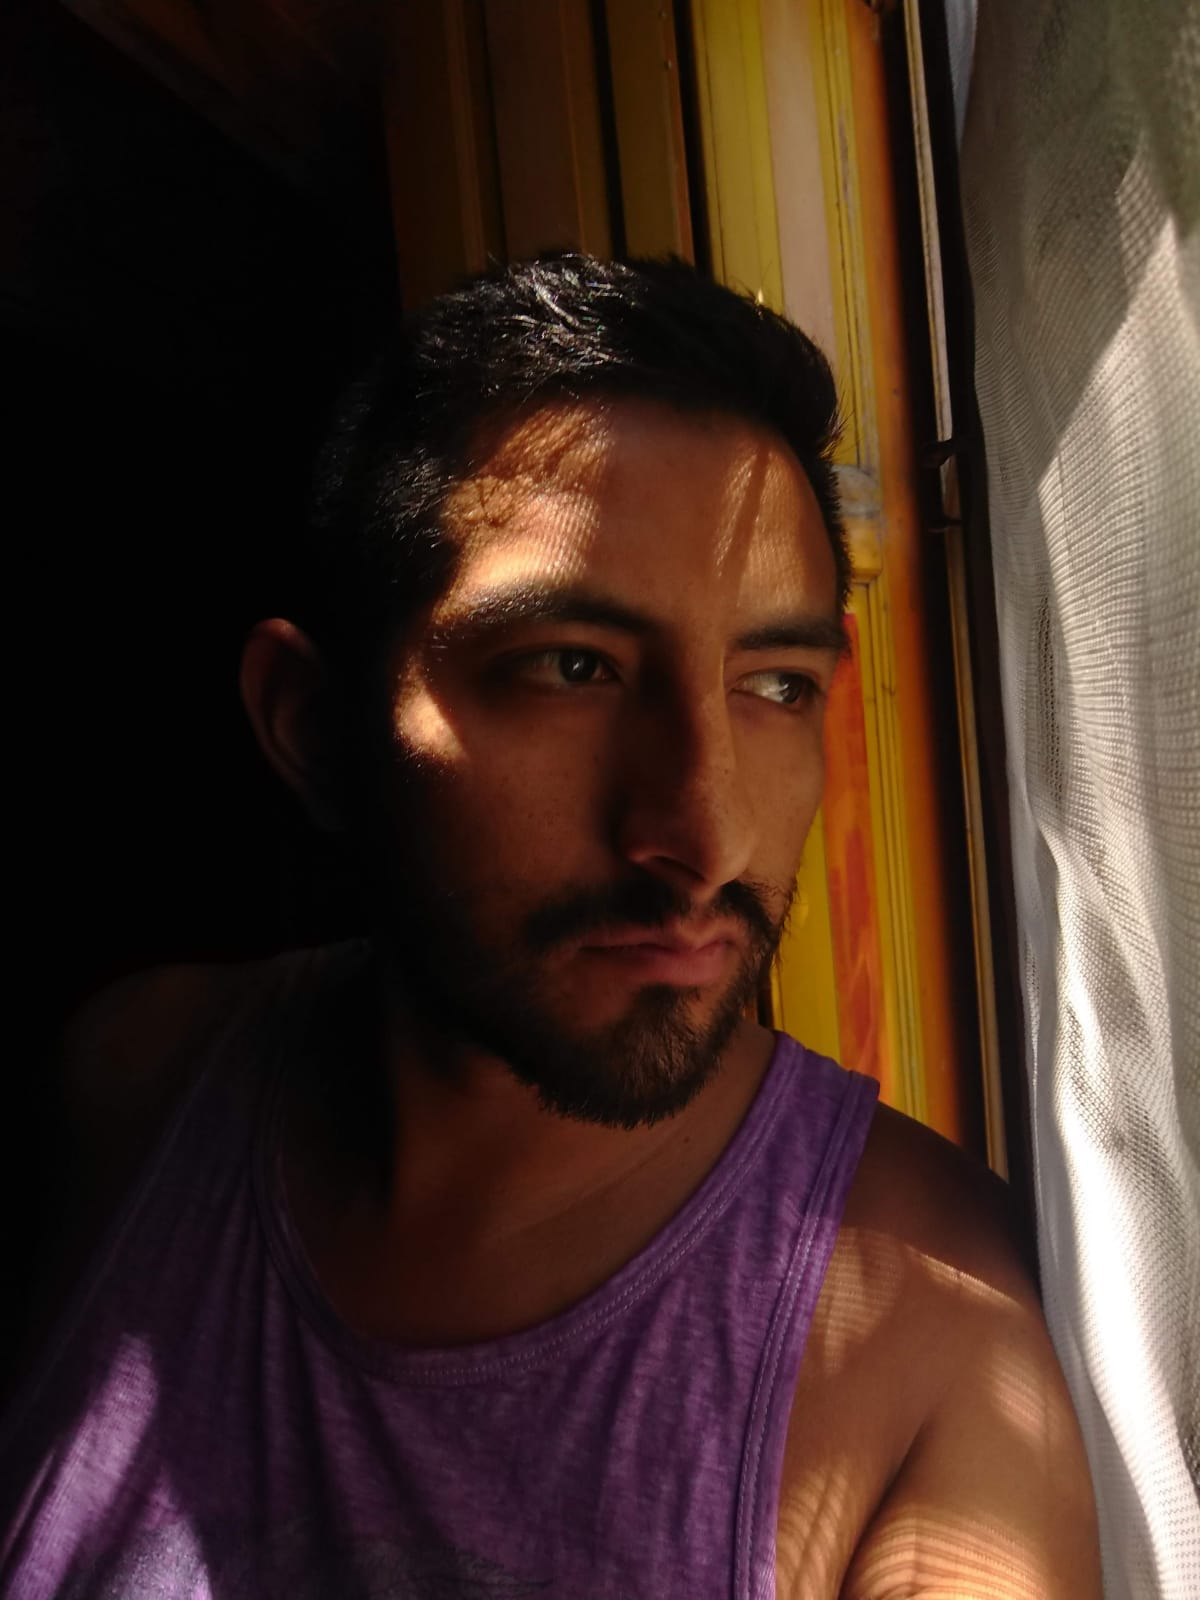
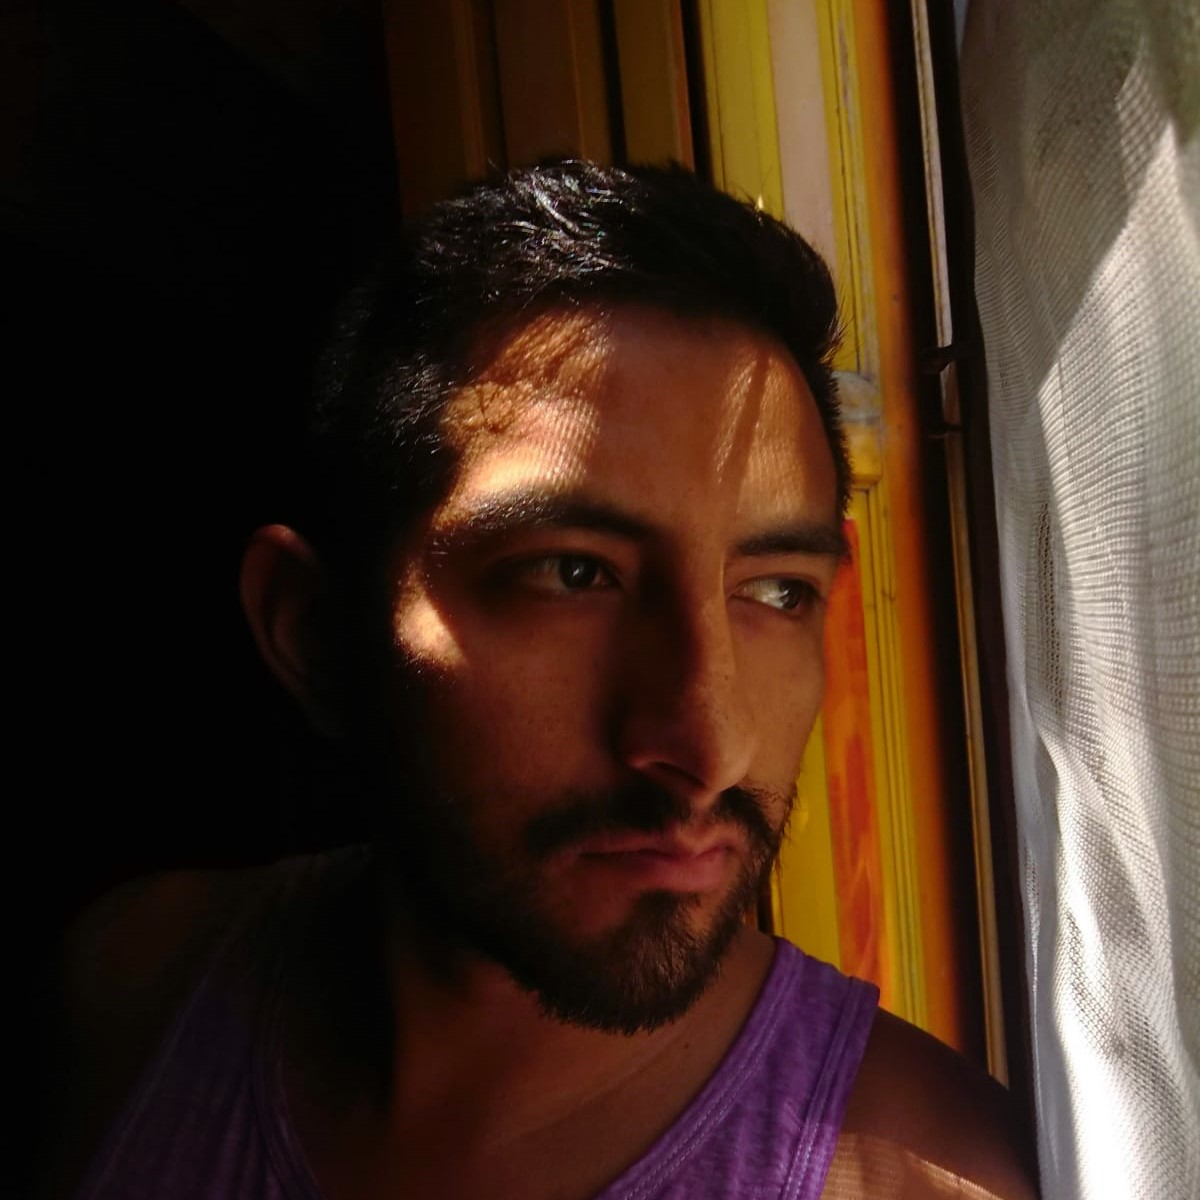
agregado menu burger y ajustes en index

diff --git a/css/estilo.css b/css/estilo.css
@@ -31,6 +31,77 @@
   transform: scale(1.1);
 }
 
+@media (max-width: 768px) {
+  .navGeneral {
+    position: relative;
+    min-height: 48px;
+  }
+  .navGeneral input:checked ~ header {
+    display: block;
+  }
+  .navGeneral input:checked ~ .bi-list {
+    display: none;
+  }
+  .navGeneral input:not(:checked) ~ .bi-x {
+    display: none;
+  }
+  .navGeneral input[type=checkbox] {
+    position: absolute;
+    box-sizing: border-box;
+    margin: 0;
+    padding: 0;
+    right: 0;
+    top: 0;
+    width: 48px;
+    height: 48px;
+    opacity: 0;
+  }
+  .navGeneral .bi-list {
+    position: absolute;
+    box-sizing: border-box;
+    margin: 0;
+    padding: 0;
+    right: 0;
+    top: 0;
+    width: 48px;
+    height: 48px;
+    font-size: 48px;
+    pointer-events: none;
+    color: #fff;
+  }
+  .navGeneral .bi-x {
+    position: absolute;
+    box-sizing: border-box;
+    margin: 0;
+    padding: 0;
+    right: 0;
+    top: 0;
+    width: 48px;
+    height: 48px;
+    font-size: 48px;
+    pointer-events: none;
+    color: #fff;
+  }
+  .navGeneral header {
+    display: none;
+  }
+  .navGeneral header a {
+    display: block;
+    max-width: 200px;
+    font-variant: small-caps;
+  }
+}
+@media (min-width: 769px) {
+  input {
+    display: none;
+  }
+  .bi-list {
+    display: none;
+  }
+  .bi-x {
+    display: none;
+  }
+}
 /* contenido principal del index */
 .indexGeneral {
   text-align: center;
@@ -45,20 +116,20 @@
   margin: 1.5rem 0;
 }
 .indexGeneral main .seccion1 img {
-  width: 30rem;
-  height: 30rem;
+  height: 25rem;
   border-radius: 50%;
 }
 .indexGeneral main .seccion2 .hijo1 {
   color: #fff;
   padding: 3rem 0;
   margin: 1rem 0;
-  font-style: italic;
   font-size: 25px;
+  font-weight: normal;
 }
 .indexGeneral main .seccion2 .hijo1 .nombre {
-  color: #5899e2;
-  text-shadow: 5px 2px 15px white;
+  color: #2a4b70;
+  text-shadow: 5px 5px 7px white;
+  font-size: 2.5rem;
 }
 
 /* contenido principal de experiencia */
@@ -176,6 +247,11 @@
 }
 .footGeneral footer h6 {
   color: #fff;
+  font-style: italic;
+}
+.footGeneral footer h6::after {
+  content: "2022";
+  color: #fff;
 }
 .footGeneral footer div a {
   margin: 1rem;
@@ -186,6 +262,8 @@
 
 body {
   background: radial-gradient(rgb(1, 1, 63), #000000);
+  height: 100vh;
+  font-family: "Barlow", sans-serif;
 }
 
 /*# sourceMappingURL=estilo.css.map */

diff --git a/scss/_header.scss b/scss/_header.scss
@@ -28,7 +28,7 @@
         ul {
             li {
                 a {
-                    font-family: 'Barlow', sans-serif;;
+                    font-family: 'Barlow', sans-serif;
                     color: $fuente;
                     transition: all .5s;
                     font-size: 1.5rem;
@@ -41,4 +41,94 @@
         }
     }
 
+}
+
+@media (max-width: 768px) {
+    .navGeneral {
+        position: relative;
+        min-height: 48px;
+
+        input {
+            &:checked{
+                & ~ header {
+                    display: block;
+                }
+    
+                & ~ .bi-list {
+                    display: none;
+                }
+            }
+    
+            &:not(:checked) {
+                & ~ .bi-x {
+                    display: none;
+                }
+            }
+        }
+
+        input[type="checkbox"]{
+            position: absolute;
+            box-sizing: border-box;
+            margin: 0;
+            padding: 0;
+            right: 0;
+            top: 0;
+            width: 48px;
+            height: 48px;
+            opacity: 0;
+        }
+    
+        .bi-list {
+            position: absolute;
+            box-sizing: border-box;
+            margin: 0;
+            padding: 0;
+            right: 0;
+            top: 0;
+            width: 48px;
+            height: 48px;
+            font-size: 48px;
+            pointer-events: none;
+            color: $fuente;
+        }
+        
+        .bi-x {
+            position: absolute;
+            box-sizing: border-box;
+            margin: 0;
+            padding: 0;
+            right: 0;
+            top: 0;
+            width: 48px;
+            height: 48px;
+            font-size: 48px;
+            pointer-events: none;
+            color: $fuente;
+        }
+
+        header {
+            display: none;
+
+            a {
+                display: block;
+                max-width: 200px;
+                font-variant: small-caps;
+            }
+        }
+    }
+}
+
+@media (min-width: 769px) {
+    
+    input {
+        display: none;
+    }
+
+    .bi-list {
+        display: none;
+    }
+
+    .bi-x {
+        display: none;
+    }
 }

diff --git a/scss/_index.scss b/scss/_index.scss
@@ -13,8 +13,7 @@
             margin: 1.5rem 0;
             
             img {
-                width: 30rem;
-                height: 30rem;
+                height: 25rem;
                 border-radius: 50%;
             }
         }
@@ -25,12 +24,13 @@
                 color: $fuente;
                 padding: 3rem 0;
                 margin: 1rem 0;
-                font-style: italic;
                 font-size: 25px;
+                font-weight: normal;
                 
                 .nombre {
                     color: $nombre;
-                    text-shadow: 5px 2px 15px white; 
+                    text-shadow: 5px 5px 7px white;
+                    font-size: 2.5rem; 
                 }
             }
                 

diff --git a/paginas/adicional.html b/paginas/adicional.html
@@ -33,6 +33,9 @@
   <body class="colorCuerpo">
     <!-- encabezado y barra de navegacion -->
     <div class="navGeneral container rounded">
+      <input type="checkbox">
+      <i class="bi bi-list"></i>
+      <i class="bi bi-x"></i>
       <header>
         <a href="../index.html" class="mb-md-0 me-md-auto">
           <h1 data-aos="zoom-in"><img src="../img/logo.png" alt="logo con nombre principal">Maquetador Web</h1>

diff --git a/paginas/contacto.html b/paginas/contacto.html
@@ -34,6 +34,9 @@
   <body>
     <!-- encabezado y barra de navegacion -->
     <div class="navGeneral container rounded">
+      <input type="checkbox">
+      <i class="bi bi-list"></i>
+      <i class="bi bi-x"></i>
       <header>
         <a href="../index.html" class="mb-md-0 me-md-auto">
           <h1 data-aos="zoom-in"><img src="../img/logo.png" alt="logo con nombre principal">Maquetador Web</h1>

diff --git a/paginas/experiencia.html b/paginas/experiencia.html
@@ -34,6 +34,9 @@
   <body>
     <!-- encabezado y barra de navegacion -->
     <div class="navGeneral container rounded">
+      <input type="checkbox">
+      <i class="bi bi-list"></i>
+      <i class="bi bi-x"></i>
       <header>
         <a href="../index.html" class="mb-md-0 me-md-auto">
           <h1 data-aos="zoom-in"><img src="../img/logo.png" alt="logo con nombre principal">Maquetador Web</h1>

diff --git a/paginas/formacion.html b/paginas/formacion.html
@@ -34,6 +34,9 @@
   <body>
     <!-- encabezado y barra de navegacion -->
     <div class="navGeneral container rounded">
+      <input type="checkbox">
+      <i class="bi bi-list"></i>
+      <i class="bi bi-x"></i>
       <header>
         <a href="../index.html" class="mb-md-0 me-md-auto">
           <h1 data-aos="zoom-in"><img src="../img/logo.png" alt="logo con nombre principal">Maquetador Web</h1>

diff --git a/index.html b/index.html
@@ -22,6 +22,9 @@
 <body>
   <!-- encabezado y barra de navegacion -->
   <div class="navGeneral container rounded">
+    <input type="checkbox">
+    <i class="bi bi-list"></i>
+    <i class="bi bi-x"></i>
     <header>
       <a href="index.html" class="mb-md-0 me-md-auto">
         <h1 data-aos="zoom-in"><img src="img/logo.png" alt="logo con nombre principal">Maquetador Web</h1>

diff --git a/scss/estilo.scss b/scss/estilo.scss
@@ -3,6 +3,8 @@
 @import "variables","mixin","header","index","experiencia","formacion","contacto","adicional","footer";
 
 body {
-    background: radial-gradient(rgb(1, 1, 63),#000000)
+    background: radial-gradient(rgb(1, 1, 63),#000000);
+    height: 100vh;
+    font-family: 'Barlow', sans-serif;
 }
 

diff --git a/scss/_footer.scss b/scss/_footer.scss
@@ -8,6 +8,12 @@
         
         h6 {
             color: $fuente;
+            font-style: italic;
+
+            &::after {
+                content: "2022";
+                color: $fuente;
+            }
         }
         
         div {

diff --git a/scss/_variables.scss b/scss/_variables.scss
@@ -1,5 +1,5 @@
 $colorFondo: #1B2845;
 $colorCuerpo: #000020;
 $fuente: #fff;
-$nombre: #5899e2;
+$nombre: #2a4b70;
 
